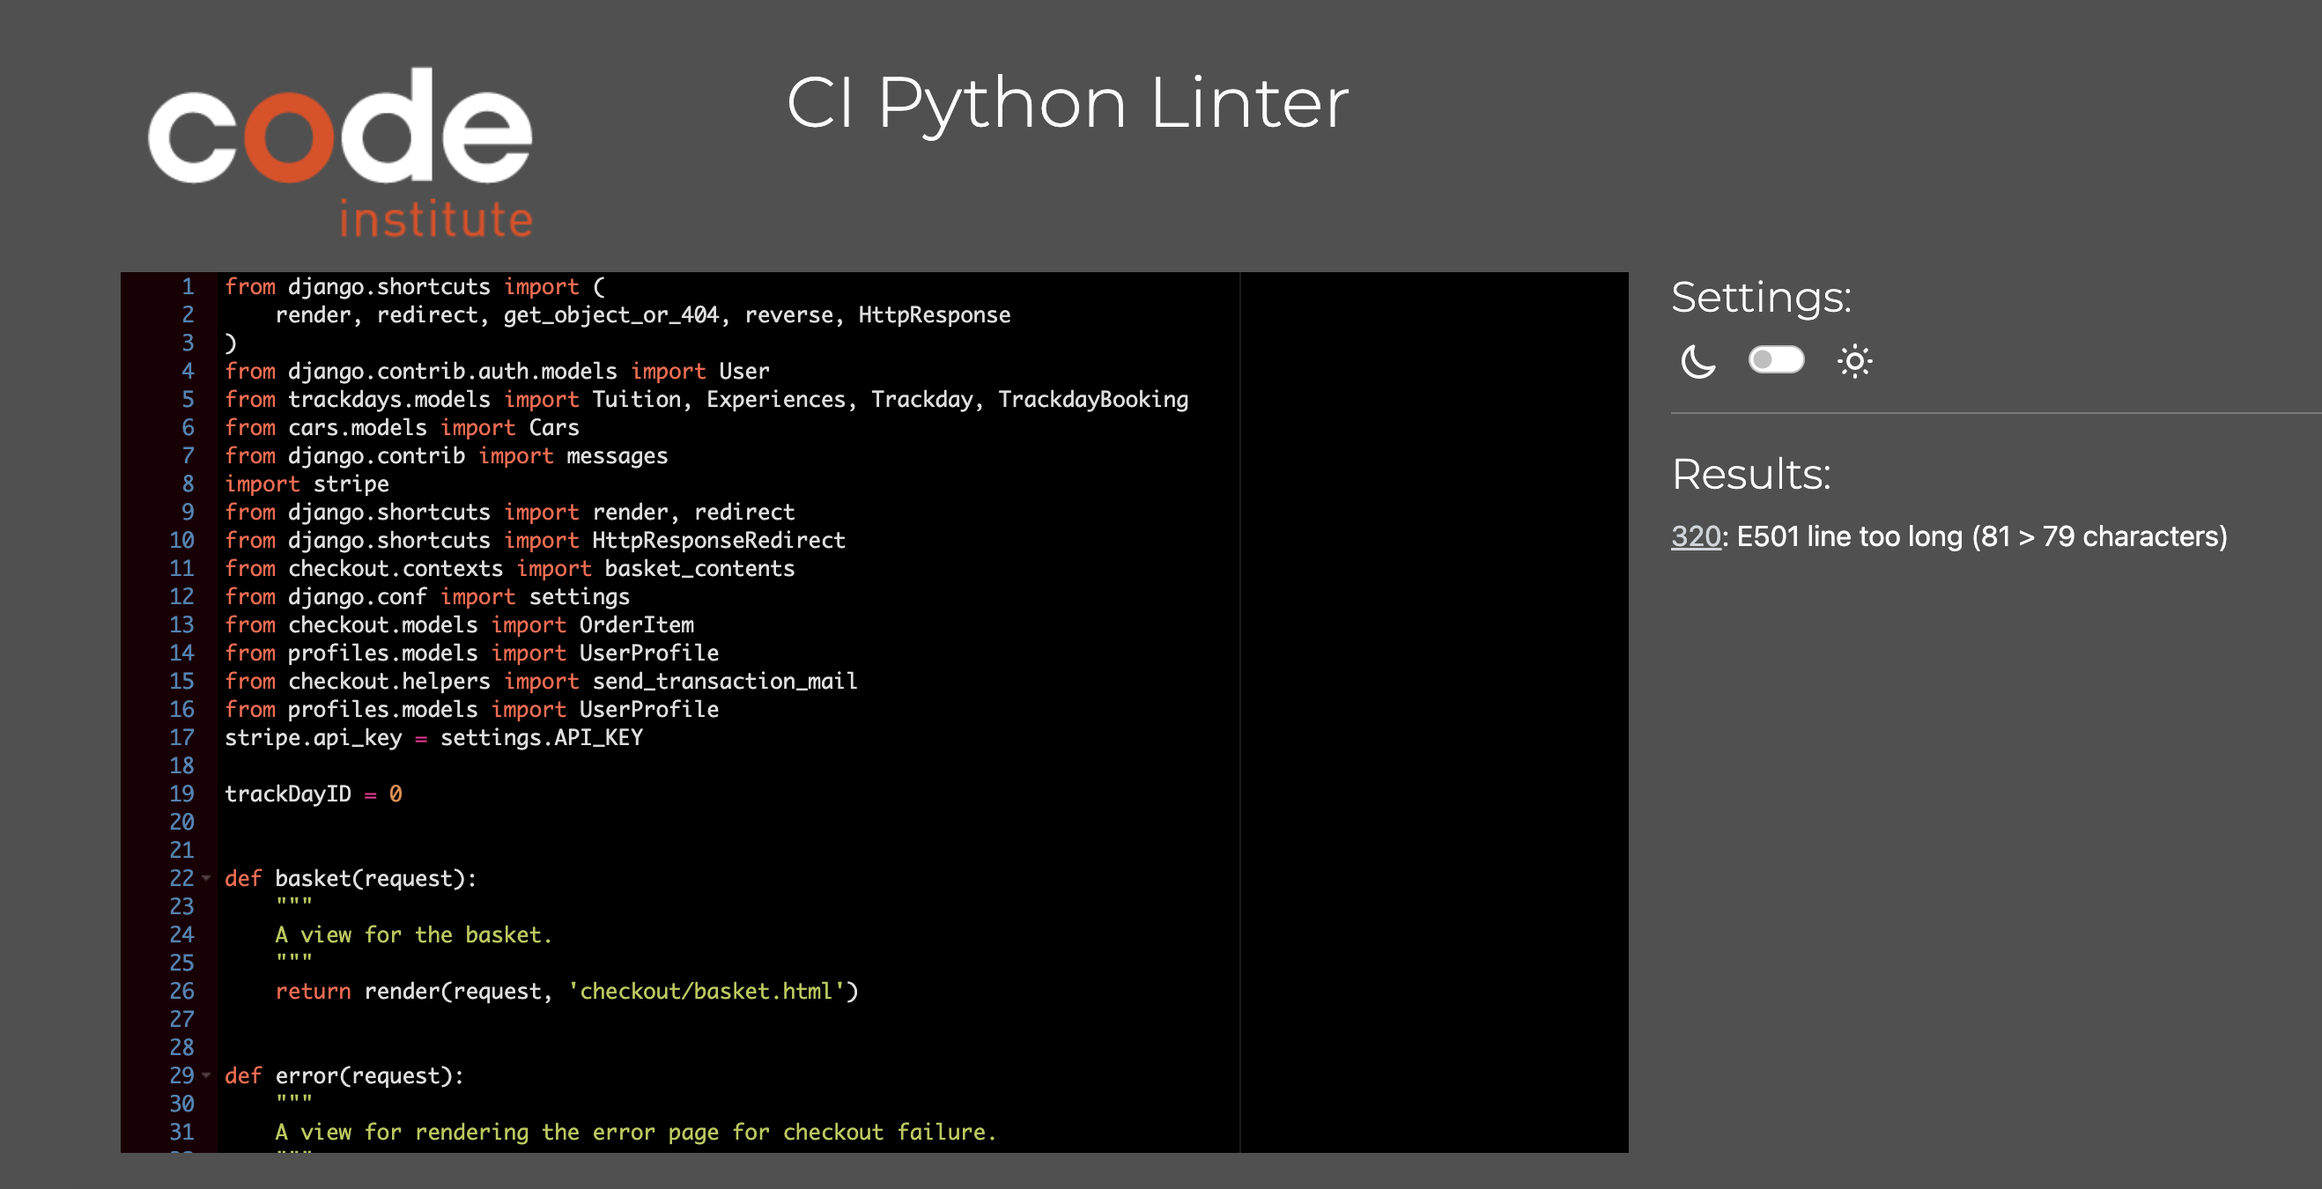
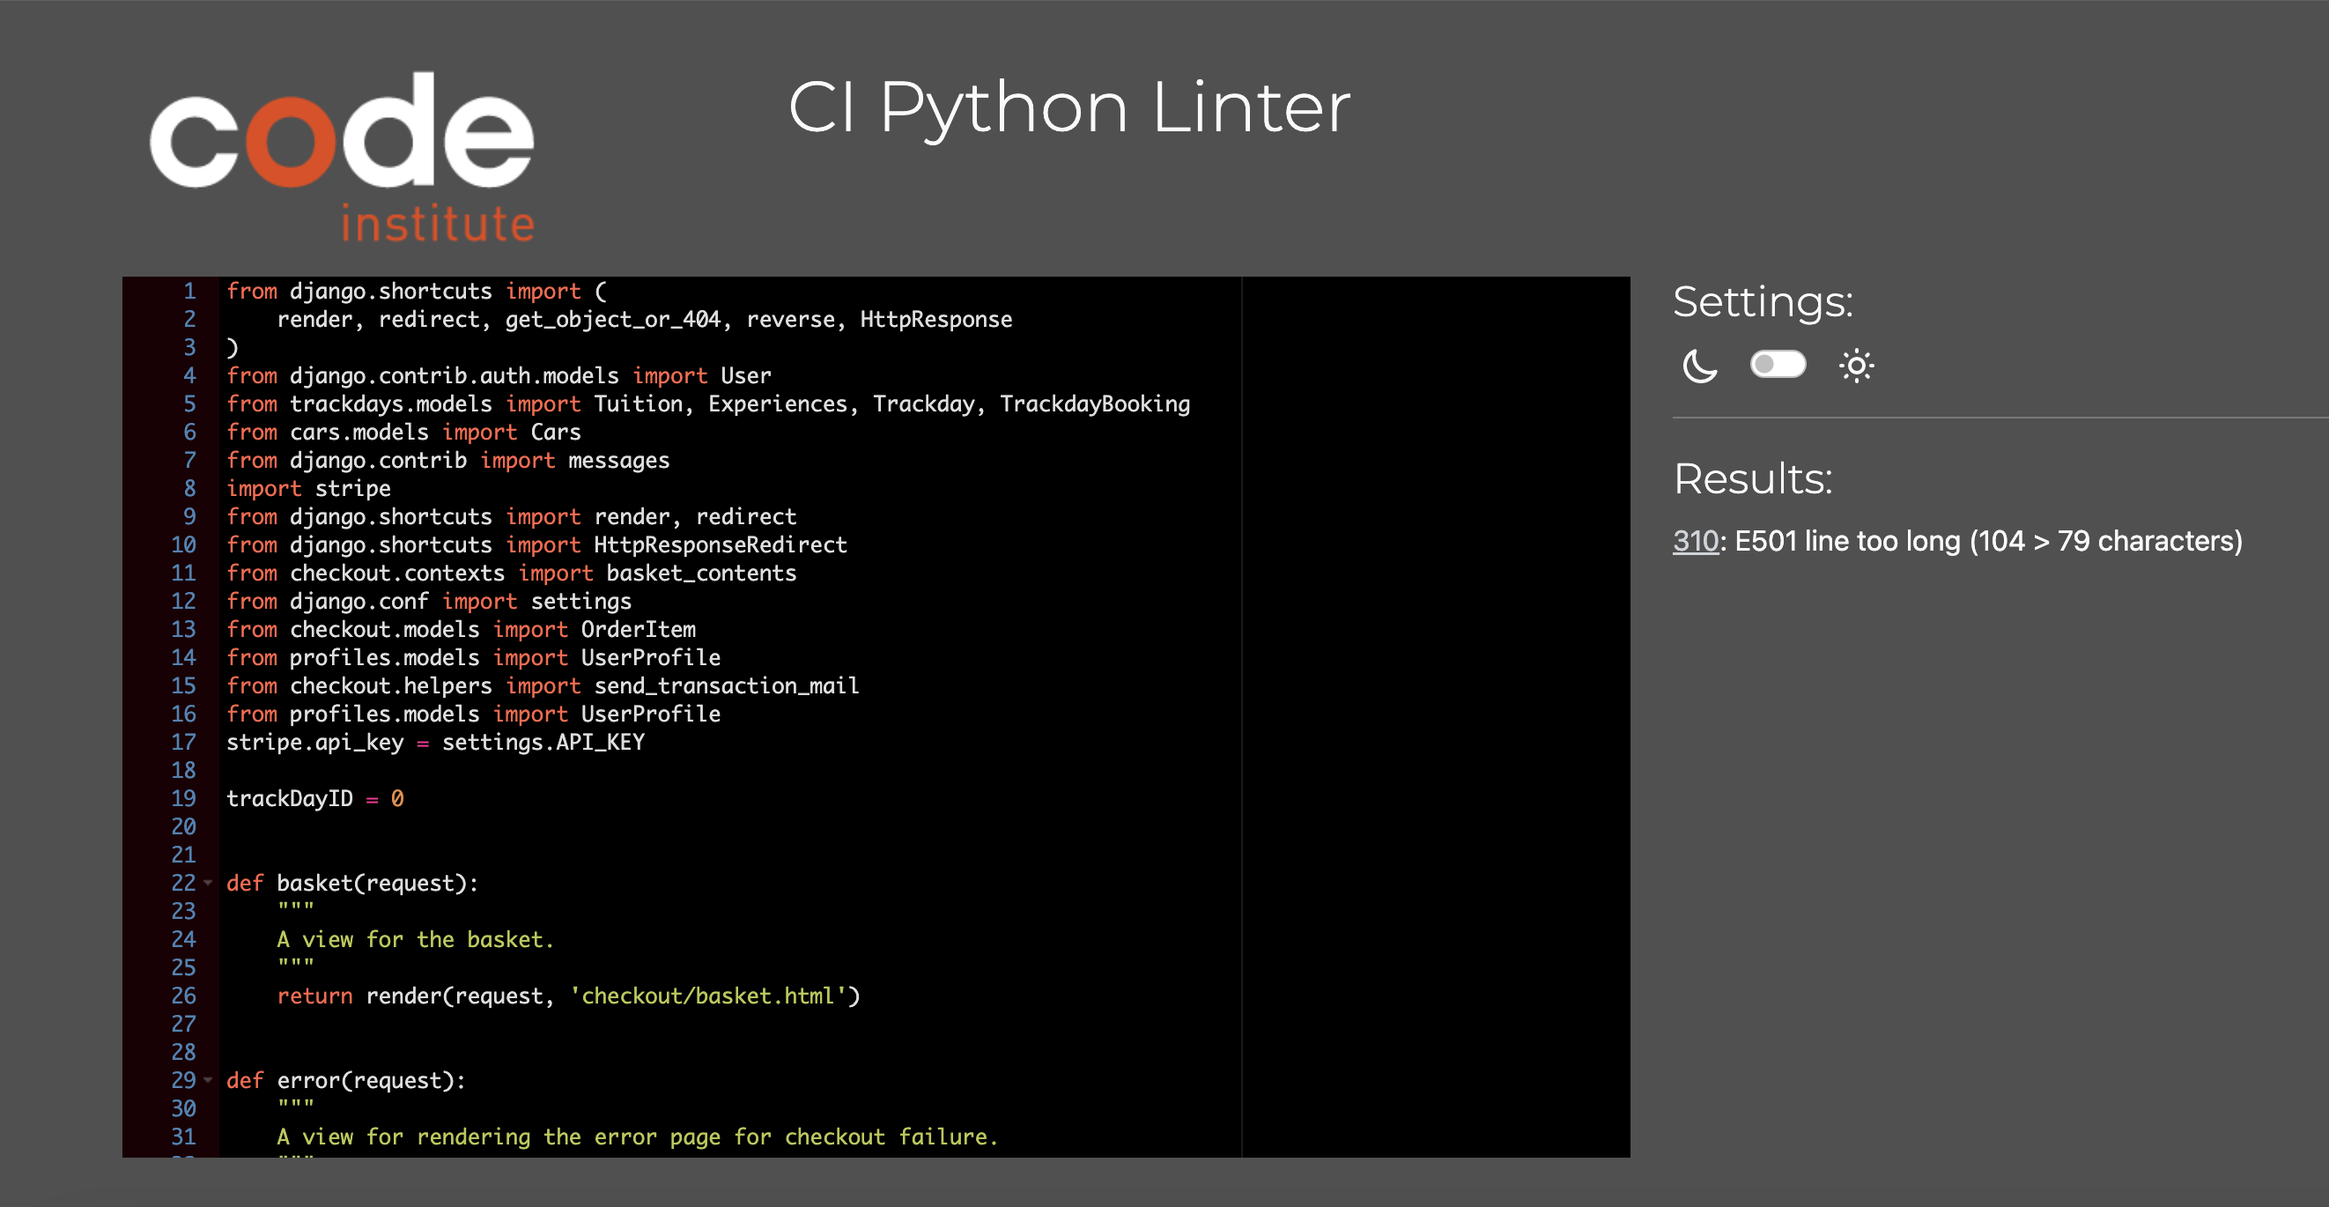
fix footer colour in base.html, add extra js to toasts html files, make to top button an anchor again due to not working as a div, hardcode image into checkout page view

diff --git a/templates/includes/toasts/toast_error.html b/templates/includes/toasts/toast_error.html
@@ -11,3 +11,21 @@
    {{ message }}
   </div>
 </div>
+
+<script>
+  // show the toast for 3 seconds
+  const toast=document.querySelectorAll('.toast');
+  setTimeout(function () {
+        toast.classList.add("show");
+      }, 1);
+      setTimeout(function () {
+        toast.classList.add("show");
+      }, 1);
+      setTimeout(function () {
+        toast.classList.remove("show");
+      }, 3000);
+      setTimeout(function () {
+        toast.classList.remove("show");
+        toast.classList.add("d-none");
+      }, 3000);
+</script>

diff --git a/templates/includes/toasts/toast_info.html b/templates/includes/toasts/toast_info.html
@@ -11,3 +11,20 @@
    {{ message }}
   </div>
 </div>
+<script>
+  // show the toast for 3 seconds
+  const toast=document.querySelectorAll('.toast');
+  setTimeout(function () {
+        toast.classList.add("show");
+      }, 1);
+      setTimeout(function () {
+        toast.classList.add("show");
+      }, 1);
+      setTimeout(function () {
+        toast.classList.remove("show");
+      }, 3000);
+      setTimeout(function () {
+        toast.classList.remove("show");
+        toast.classList.add("d-none");
+      }, 3000);
+</script>

diff --git a/templates/includes/toasts/toast_success.html b/templates/includes/toasts/toast_success.html
@@ -16,3 +16,20 @@
    {{ message }}
   </div>
 </div>
+<script>
+  // show the toast for 3 seconds
+  const toast=document.querySelectorAll('.toast');
+  setTimeout(function () {
+        toast.classList.add("show");
+      }, 1);
+      setTimeout(function () {
+        toast.classList.add("show");
+      }, 1);
+      setTimeout(function () {
+        toast.classList.remove("show");
+      }, 3000);
+      setTimeout(function () {
+        toast.classList.remove("show");
+        toast.classList.add("d-none");
+      }, 3000);
+</script>

diff --git a/templates/includes/toasts/toast_warning.html b/templates/includes/toasts/toast_warning.html
@@ -11,3 +11,20 @@
    {{ message }}
   </div>
 </div>
+<script>
+  // show the toast for 3 seconds
+  const toast=document.querySelectorAll('.toast');
+  setTimeout(function () {
+        toast.classList.add("show");
+      }, 1);
+      setTimeout(function () {
+        toast.classList.add("show");
+      }, 1);
+      setTimeout(function () {
+        toast.classList.remove("show");
+      }, 3000);
+      setTimeout(function () {
+        toast.classList.remove("show");
+        toast.classList.add("d-none");
+      }, 3000);
+</script>

diff --git a/templates/base.html b/templates/base.html
@@ -175,9 +175,9 @@
             <span>
                 <a href="{% url 'newsletter' %}" class="signUpBtn ms-5"><i class="fa fa-sign-in" aria-hidden="true"></i> Newsletter Sign Up</a></span>
             <!-- Button to return to page top -->
-            <div class="toTopBtn" id="toTopBtn">
+            <a href="#" class="toTopBtn" id="toTopBtn">
                 <i class="fas fa-arrow-up"></i>
-            </div>
+              </a>
         </div>
     </footer>
     <!-- End of Footer -->

diff --git a/trackdays/static/trackdays/css/tuition.css b/trackdays/static/trackdays/css/tuition.css
@@ -35,7 +35,7 @@ body{
 footer {
     border: none;
     padding: 5px 0;
-    width: 100%;
+    width: 98.6%;
     display: flex;
     position: fixed;
     bottom: -12px;

diff --git a/checkout/views.py b/checkout/views.py
@@ -296,30 +296,27 @@ def checkout(request):
                 experience_obj = item['experience']
                 image = experience_obj.image
                 products['image'].append(image.url)
-        full_urls = [base_url + image for image in products['image']]
         session = stripe.checkout.Session.create(
-            success_url=base_url + "/checkout/success",
-            cancel_url=base_url + "/checkout/cancel",
+            success_url=base_url +
+            "/checkout/success",
+            cancel_url=base_url +
+            "/checkout/cancel",
             line_items=[
                 {
                     "price_data": {
                         "currency": "GBP",
                         "product_data": {
                             "name": "All cart products",
-                            'images': full_urls,
+                            'images': ['https://i.ibb.co/8XDNbc0/Untitled-design-removebg-preview.png'],
                         },
-                        "unit_amount": grand_total * 100
-                    },
+                        "unit_amount": grand_total *
+                        100},
                     "quantity": 1,
                 },
             ],
             mode="payment",
         )
         request.session['session_id'] = session['id']
-        sessions = stripe.checkout.Session.retrieve(
-            'cs_test_a1a5Wf5glehWfK0M2sCBy0ONbIhG3ZokJ9WKWYNSnf5GpUaJU8lVh1MSP5',
-            expand=['line_items'],
-        )
         return HttpResponseRedirect(session.url)
     else:
         messages.error(

diff --git a/TESTING.md b/TESTING.md
@@ -33,6 +33,17 @@ I will attempt to conduct a more thorough unittest of the project in future.
 
 ## Manual Testing
 
+### Stripe
+
+To test the checkout payments with card details in test mode, I used the following long card numbers:
+
+- 4242424242424242: for successful card payments (Visa)
+- 4000056655665556L for successful card payments (Visa Debit)
+- 4000000000009995: for card with insufficient funds
+- 4000000000000002: for testing card declined
+
+I used the above to successfully test Stripe and I am happy to say it is working as expected
+
 ### Home/Index/Middle-Navigation
 | Test | Method | Expected Outcome | Result |
 | - | - | - | - |
@@ -67,7 +78,7 @@ I will attempt to conduct a more thorough unittest of the project in future.
 | Button change when Trackday in basket | add trackday to basket and return to trackday list page | buttons should change to reflect the face that you can only book one trackday at a time | PASS |
 | Request Trackday Button | click on button | directs you to the track day request page and form | PASS |
 | Availability counter update | checkout out with a trackday order succesfully and return to the trackday list | Availability of specific trackday will decrease | PASS |
-| Booking Button change when full | Test what happens when a trackday's availability goes to 0 |  |  |
+| Booking change when full | Test what happens when a trackday's availability goes to 0 | Booking will disappear from the trackday list | PASS |
 |  |  |  |  |
 
 
@@ -125,12 +136,11 @@ I will attempt to conduct a more thorough unittest of the project in future.
 | - | - | - | - |
 | Sign Up | Create an account | You will be asked to verify your account and sent an email to verify it | PASS |
 | Verification Email | Click on email link to verify account | Upon click, you will be redirected to the site where it will be confirmed that your account is verified | PASS |
+| Click to verify | Click on the click to verify when taken to page from verification email | click and redirect to the sign in page  | PASS |
 | Login | Login with a registered account | Redirected to homepage and informed you are logged in | PASS |
 | Remember me checkbox | Click on remember me checkbox button before loggin in | You will not need to login next time you visit the site | PASS |
 | Forgot Password | Click on Forget Password and submit email | Link to set new password sent to email address supplied by user | PASS |
-|  |  |  |  |
-|  |  |  |  |
-|  |  |  |  |
+
 
 ### Basket and Checkout
 | Test | Method | Expected Outcome | Result |
@@ -143,14 +153,14 @@ I will attempt to conduct a more thorough unittest of the project in future.
 | Delete Item in basket | Click 'Delete button | Item is deleted from the basket | PASS |
 | Summary total Calculator | Add items to basket, change quantities, delete items from basket | total will adjust accordingly | PASS |
 | Summary VAT calculator | Add items to basket and check VAT calculation | 20% VAT applied automatically | PASS |
-| Checkout Button (Basket Page) |  |  |  |
-| Checkout Button (Nav Link) |  |  |  |
-| Checkout  |  |  |  |
-| Checkout Success |  |  |  |
-| Checkout Cancel |  |  |  |
-| Checkout Fail |  |  |  |
-| Confirmation Email |  |  |  |
-| Order History Added/Updated |  |  |  |
+| Checkout Button (Basket Page) | Add item to basket and click on the checkout button in the basket page | redirect to the stripe checkout | PASS |
+| Checkout Button (Nav Link) | Add item to basket and click on the checkout link in the nav | redirect to the stripe checkout | PASS |
+| Checkout validation | Attempt to submit checkout with inclomplete input fields | Checkout will not proceed until you have filled in all required fields | PASS |
+| Checkout Success | Visit checkout, fill in required fields and click 'Pay' | On successfull payment, you are redirected to the success page | PASS |
+| Checkout Cancel | Visit checkout and click the back arrow button | Redirected to the cancel page and basket is still saved | PASS |
+| Checkout Fail | Attempt a failed checkout | Redirected to the checkout fail error page, user is not charged | PASS |
+| Confirmation Email | Checkout by clicking 'Pay' and check inbox of email supplied | Email will send with a link to your oreder history page | PASS |
+| Order History Added/Updated | Checkout and visit order history page through the link provided in the email | Order is added to order history table in chronological order | PASS |
 
 ### Management
 | Test | Method | Expected Outcome | Result |
@@ -483,6 +493,9 @@ I have included different screenshots to demonstrate this and show that the JS i
 ![Bootstrap Toast JS](/static/images/readme-images/validation-images/bootstrap-toasts-js-val.png)
 ![Bootstrao Toast JS](/static/images/readme-images/validation-images/bootstrap-toasts-js-js-val.png)
 
+Extra JS in includes/toasts html files:
+![Extra JS](/static/images/readme-images/validation-images/extra-toast-js.png)
+
 
 </details>
 
@@ -556,9 +569,10 @@ All Python validation was checked through Code Institute's PEP8 Python Linter. Y
 | helpers.py | PASS |
 | tests.py |  |
 
-* Line 320 in views.py reads as too long, however, for reliability I have opted to leave this
-in as it can cause issues in deployment when concatenated as it is a url. I believe this is
-a sensible and reasonable precaution to take for site reliability.
+* Line 310 in views.py reads as too long, however, for reliability I have opted to leave this
+in as it can cause issues in deployment when concatenated as it is an image url. I believe this is
+a sensible and reasonable precaution to take for site reliability in conjunction with stripe.
+See further explanation below.
 
 
 ### /cars
@@ -610,7 +624,7 @@ a sensible and reasonable precaution to take for site reliability.
 ![models.py](/static/images/readme-images/validation-images/checkout-models.py-val.png)
 ![urls.py](/static/images/readme-images/validation-images/checkout-urls.py-val.png)
 ![views.py](/static/images/readme-images/validation-images/checkout-views.py-val.png)
-![views.py 2](/static/images/readme-images/validation-images/checkout-views.py-line-length.png)
+![views.py 2](/static/images/readme-images/validation-images/checkout-views.py-line-too-long.png)
 ![contexts.py](/static/images/readme-images/validation-images/checkout-contexts.py-val.png)
 ![helpers.py](/static/images/readme-images/validation-images/checkout-helpers.py-val.png)
 
@@ -630,9 +644,10 @@ a sensible and reasonable precaution to take for site reliability.
 
 ### Current Python Errors/Issues/Explanations:
 
-- Only 1 known python linting issue across the entire workspace, being that of line 320 in /checkout/views.py where a line is too long by 2 characters.
+- Only 1 known python linting issue across the entire workspace, being that of line 310 in /checkout/views.py where a line is too long.
 Due to this being a url, and a pretty specific one from Stripe as well, I opted to follow best practice and to leave it as is for this one exception in order 
 to ensure reliability of the checkout on the site. I believe reliability takes priority over anything else.
+I am very much following [this Principal](https://peps.python.org/pep-0008/#a-foolish-consistency-is-the-hobgoblin-of-little-minds)
 
 
 ---

diff --git a/README.md b/README.md
@@ -365,7 +365,7 @@ Below is a comprehensive list of the site features and their relations to the us
         - Most Pages can be navigated to directly from this one point
         - Theme of site and target audience easily identifiable from the home page alone
 
-3. A page Footer that:
+3. A Page Footer that:
     - Contains Policies and FAQs links
     - Contains a prompt to sign up to the Django Raceway Newsletter
     - An up-arrow button to return to the top of the page
@@ -674,10 +674,6 @@ In total, I have included **9 models**, which are:
 - Cars
 
 
-
-
-
-
 ---
 
 ## Technologies Used
@@ -737,6 +733,25 @@ Full list of technology implemented below:
 - stripe==5.1.1
 
 
+## The SendGrid API:
+
+- [SendGrid Site](https://docs.sendgrid.com/)
+- [SendGrid Quickstart Docs for Python](https://docs.sendgrid.com/for-developers/sending-email/quickstart-python)
+
+### What is SendGrid?
+- For mailing purposes, we use need to use an SMTP Server. 
+- SendGrid is a cloud-based SMTP provider that allows you to send email without having to maintain email servers. SendGrid manages all of the technical details, from scaling the infrastructure to ISP outreach and reputation monitoring to whitelist services and real time analytics - **Definition from SendGrid itself.**
+
+### Why use SendGrid?
+- SendGrid is a free mailing server.
+- It provides 100 emails per day included in the free account.
+
+
+### How does SendGrid work?
+- After creating an account, and following the documentation, SendGrid provides an API key to use in our env.py file.
+- We create a function where we write the logic that is provided in the documentation. 
+- SendGrid is able to send emails to and from the specific email addresses of the client and user. 
+
 ---
 
 ## Testing
@@ -785,6 +800,8 @@ I have also found out this can happen to the login link if you sign out. Again, 
     - An **AWS** account
     - A **Stripe** account
     - An **ElephantSQL** account
+    - A **SendGrid Account**
+    - Another Email Account, such as GMail
 
 ### Version Control:
 
@@ -826,14 +843,19 @@ I have also found out this can happen to the login link if you sign out. Again, 
 - In the drop down, select "Create new app - you will be taken to a page where you will be able to name the app and select a region. Once you have filled this information in, click the "Create app" button. Your app is now created.
 - To pair an ElephantSQL (PostgreSQL) Database to your project, as I did to mine, see steps for this in the next section below. Alternatively, you can use a Heroku Postgres database.
 - Next, you should navigate to the Settings tab to set up the config vars. Scroll down slightly to the button that reads "Reveal Config Vars" and click it to open it. We are going to need to add/remove the following information: 
-    - DATABASE_URL: this should have been automatically generated by Heroku for you, but make sure it is populated already. Click add.
+    - DATABASE_URL: this should have been automatically generated by Heroku for you, but make sure it is populated already.
+    If you are using another service such as ElephantSQL, simply place that database url in here instead. Click add.
     - USE_AWS: should be set to True. Click add.
     - AWS_ACCESS_KEY_ID: should be set to your AWS access key, click add.
     - AWS_SECRET_ACCESS_KEY: should be set to your AWS secret key, click add.
     - EMAIL_HOST_PASS: In conjuntion with whichever email app provider you use. In my case, GMail and they provide you with a unique pass code to enter in to your config. Click add.
+    - SEND_GRID_API: Should be set to your SendGrid API Key. Click add.
     - EMAIL_HOST_USER: this will be your email address. Click add.
     - SECRET_KEY: This should be a secret password, do not publish this anywhere. Click add.
-     - DISABLE_COLLECTSTATIC: Should have been set to 1 during development. You will REMOVE this for full deployment. Click the 'x' to remove it. However, if you set up a dynamic DEBUG variable in settings.py, like so: `DEBUG = 'DEVELOPMENT' in os.environ`, you can remove it earlier.
+    - STRIPE_SECRET_KEY: Set to your Stripe Secret Key. Click add.
+    - STRIPE_PUBLISHABLE_KEY: Set to your Stripe Publishable key. Click add.
+    - API_KEY: insert your stripe api key here. Click add.
+    - DISABLE_COLLECTSTATIC: Should have been set to 1 during development. You will REMOVE this for full deployment. Click the 'x' to remove it. However, if you set up a dynamic DEBUG variable in settings.py, like so: `DEBUG = 'DEVELOPMENT' in os.environ`, you can remove it earlier.
 
 - After this, head to the Deploy tab and scroll down to the Deployment Method section and select "Github"
 - Next, in the "App connected to GitHub" section, look up your account and repo to pair it to the heroku app (click connect).
@@ -847,7 +869,6 @@ I have also found out this can happen to the login link if you sign out. Again, 
 - The site has been shared with friends and family to get feedback and constructive criticism. 
 - I have also had my project reviewed by my course mentor in 3 stages of the development cycle. 
 - I had the London C.I group review my site and give their thoughts on the project.
-
 
 ---
 
